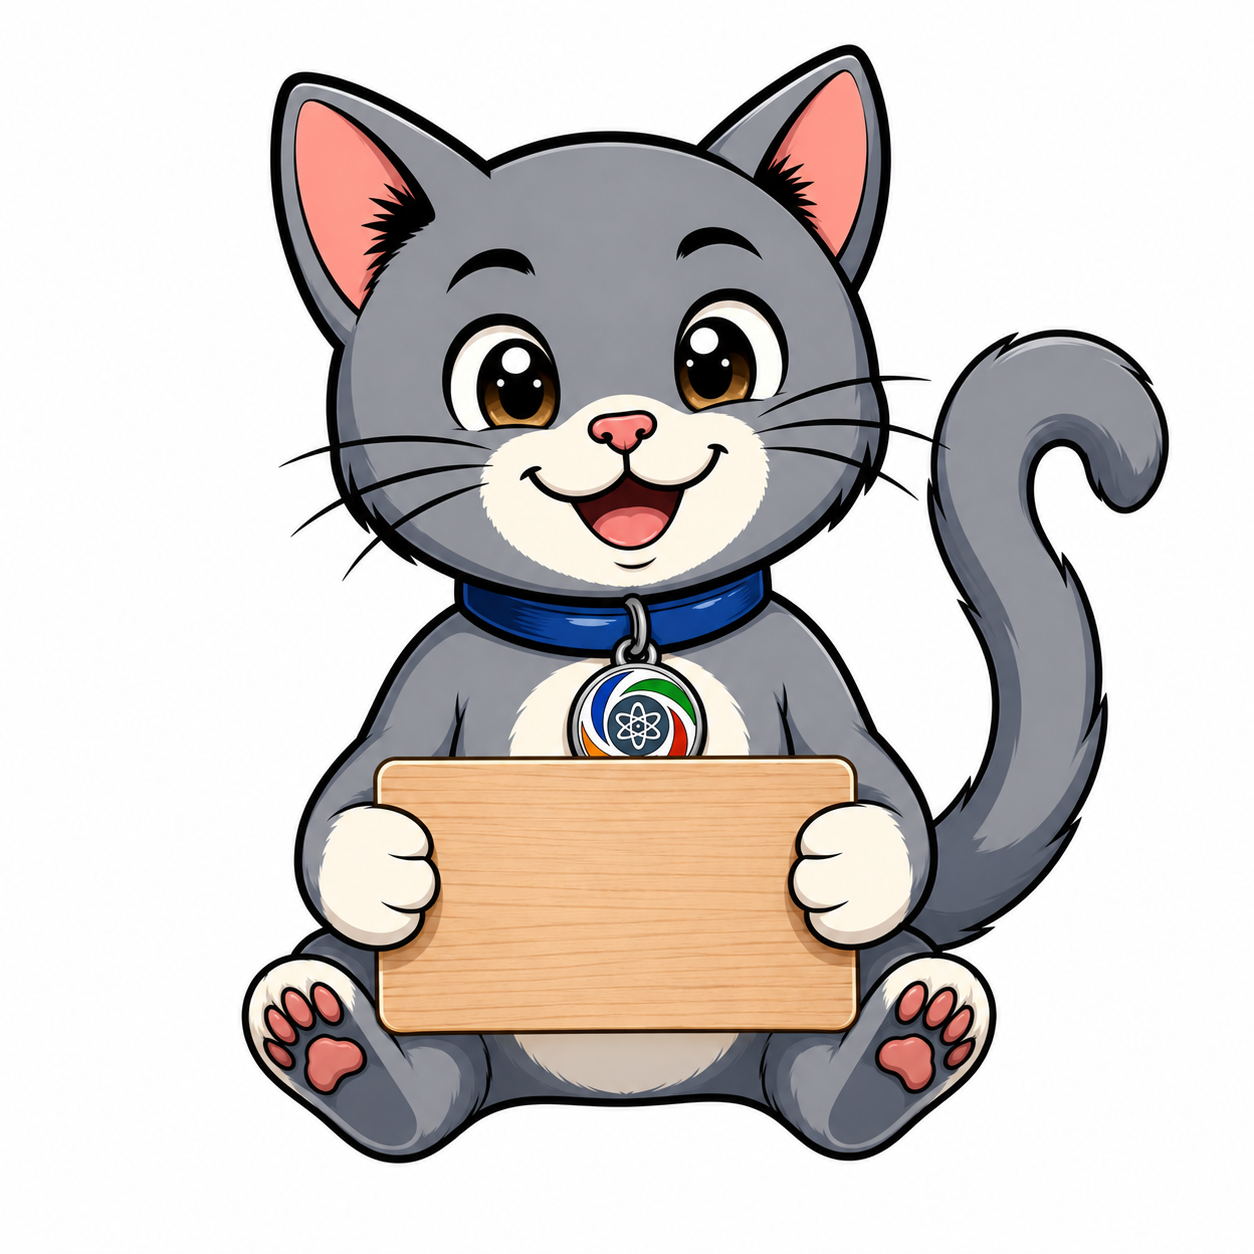
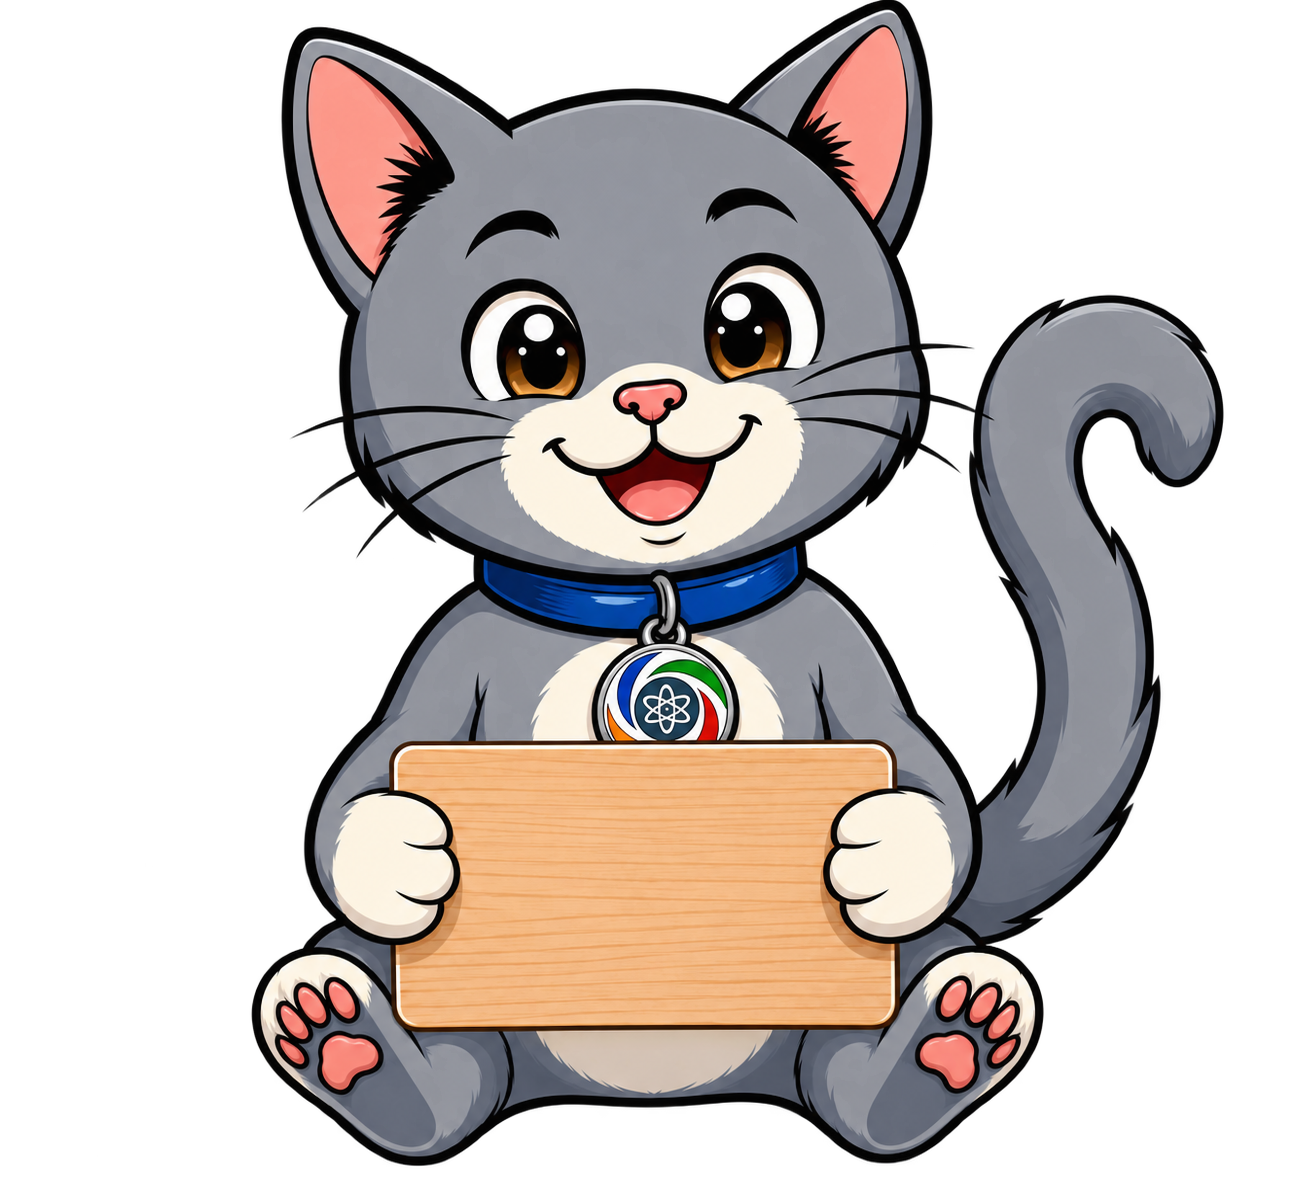
Refine QR cards and cat asset

diff --git a/public/styles.css b/public/styles.css
@@ -227,13 +227,14 @@ textarea:focus {
 
 .qr-box {
   width: 100%;
-  max-width: 180px;
+  max-width: 224px;
   aspect-ratio: 1;
   display: grid;
   place-items: center;
   background: #fff;
   border-radius: 22px;
-  padding: 12px;
+  padding: 14px;
+  overflow: hidden;
 }
 
 .qr-panel--instagram .qr-box {
@@ -242,6 +243,16 @@ textarea:focus {
 
 .qr-panel--tiktok .qr-box {
   box-shadow: 10px 10px 0 rgba(37, 244, 238, 0.22), -10px -10px 0 rgba(254, 44, 85, 0.22);
+}
+
+.qr-image {
+  display: block;
+  width: 100%;
+  height: 100%;
+  object-fit: contain;
+  image-rendering: pixelated;
+  image-rendering: crisp-edges;
+  transform: translateZ(0);
 }
 
 .cat-stage {
@@ -754,8 +765,8 @@ thead {
   }
 
   .qr-box {
-    max-width: 280px;
-    padding: 18px;
+    max-width: 320px;
+    padding: 20px;
   }
 
   .social-link {

diff --git a/public/app.js b/public/app.js
@@ -70,8 +70,8 @@ function escapeHtml(text) {
 }
 
 function renderQr(target, url) {
-  const api = `https://api.qrserver.com/v1/create-qr-code/?size=220x220&data=${encodeURIComponent(url)}`;
-  target.innerHTML = `<img src="${api}" alt="QR code" width="180" height="180" />`;
+  const api = `https://api.qrserver.com/v1/create-qr-code/?size=256x256&qzone=2&data=${encodeURIComponent(url)}`;
+  target.innerHTML = `<img class="qr-image" src="${api}" alt="QR code" width="200" height="200" loading="eager" decoding="sync" />`;
 }
 
 const cloudSlots = [
